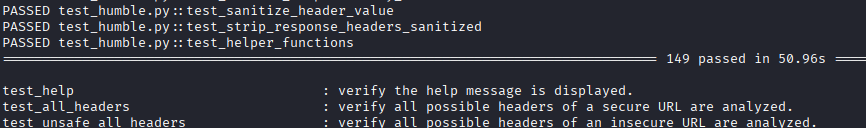
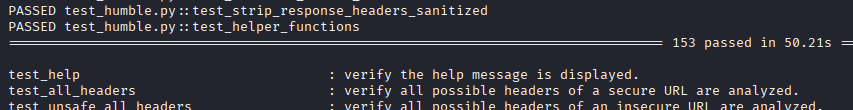
Feature: 2 new insecure checks
Content-Security-Policy: Ignored Directives - Response body
Content-Security-Policy-Report-Only: Ignored Header - Response body

diff --git a/tests/test_humble.py b/tests/test_humble.py
@@ -73,7 +73,7 @@ EXTENDED_TAGS = ["[test_python_version]", "[test_missing_arguments]",
                  "[test_testssl_command]", "[test_testssl_command_declined]",
                  "[test_testssl_analysis]", "[test_helper_functions]",
                  "[test_csp_report_only]", "[test_permissions_report_only]",
-                 "[test_request_unhandled_exception]"]
+                 "[test_request_unhandled_exception]", "[test_csp_meta]"]
 HUMBLE_TESTS_DIR = Path(__file__).parent
 HUMBLE_TEMP_HISTORY = HUMBLE_TESTS_DIR / "analysis_h.txt"
 HUMBLE_TEMP_PREFIX = "humble_"
@@ -146,8 +146,21 @@ TESTSSL_SKIP = pytest.mark.skipif(
     system().lower() == "windows",
     reason="testssl.sh requires a Unix environment (Cygwin, MSYS2 or WSL)")
 
+META_BODY = (
+    b'<html><head><meta http-equiv="Content-Security-Policy" content="'
+    b"default-src 'self' https://sandbox.example.com; frame-ancestors 'none'; "
+    b'report-uri /csp">'
+    b'<meta http-equiv="Content-Security-Policy-Report-Only" '
+    b'content="default-src *"></head></html>'
+)
+
+
 class _LocalStatusHandler(BaseHTTPRequestHandler):
-    """Serve '/status/<code>' paths returning that HTTP status code."""
+    """Serve '/status/<code>' paths returning that HTTP status code.
+
+    '/meta/<code>' paths also return an HTML body with '<meta http-equiv>'
+    tags.
+    """
 
     def do_GET(self):
         """Reply with the status code encoded in the request path."""
@@ -158,6 +171,8 @@ class _LocalStatusHandler(BaseHTTPRequestHandler):
         user_agent = user_agent.replace("\r", "").replace("\n", "")
         self.send_header("X-Request-User-Agent", user_agent)
         self.end_headers()
+        if self.command == "GET" and self.path.startswith("/meta/"):
+            self.wfile.write(META_BODY)
 
     def do_HEAD(self):
         """Reply to HEAD requests exactly as GET ones."""
@@ -986,6 +1001,25 @@ def test_csp_tokens():
     assert "(Deprecated Directives)" not in output
     assert "(Insecure Schemes)" not in output
     assert "(Unsafe Directive)" not in output
+
+
+def test_csp_meta():
+    """Verify the 'Content-Security-Policy' checks of the response body."""
+    result = subprocess.run(
+        [sys.executable, HUMBLE_MAIN_FILE, "-u",
+         f"{LOCAL_SERVER_URL}/meta/200"],
+        capture_output=True,
+        text=True,
+        timeout=15,
+        encoding="utf-8",
+        errors="replace",
+        check=False,
+    )
+    output = result.stdout + result.stderr
+    assert "Content-Security-Policy (Ignored Directives" in output
+    assert "'frame-ancestors', 'report-uri'" in output
+    assert "'sandbox'" not in output
+    assert "Content-Security-Policy-Report-Only (Ignored Header" in output
 
 
 def test_csp_report_only():

diff --git a/humble.py b/humble.py
@@ -4856,6 +4856,9 @@ t_csp_fallback = ("child-src", "connect-src", "font-src", "img-src",
 # https://mdn.io/Content-Security-Policy-Report-Only
 t_csp_ro_dep = (*t_csp_dep, "sandbox")
 
+# https://www.w3.org/TR/CSP3/#meta-element
+t_csp_meta = ("frame-ancestors", "report-uri", "sandbox")
+
 # https://developer.mozilla.org/en-US/docs/Web/HTTP/Reference/Headers/Content-Type
 # https://cheatsheetseries.owasp.org/cheatsheets/HTTP_Headers_Cheat_Sheet.html
 t_ct_mime = ("application/xhtml+xml", "text/html")
@@ -5136,6 +5139,16 @@ if header_eligible("content-security-policy"):
     csp_analyze_content(csp_h, csp_dirs_vals, csp_dirs)
     csp_check_values(csp_h, csp_dirs, csp_values)
 
+# https://www.w3.org/TR/CSP3/#meta-element
+if http_equiv:
+    csp_meta = [content for name, content in http_equiv
+                if name.casefold() == "content-security-policy"]
+    csp_meta_dirs = {directive.split()[0].casefold() for content in csp_meta
+                     for directive in content.split(";") if directive.strip()}
+    if matches_csp_meta := sorted(csp_meta_dirs.intersection(t_csp_meta)):
+        print_matched_details("[icspmeta_d]", "[icsi_d_s]", ", ".join(
+            f"'{x}'" for x in matches_csp_meta), "[icspmeta_d_r]")
+
 if header_eligible("content-security-policy-report-only"):
     csp_ro_header = headers_l["content-security-policy-report-only"]
     csp_ro_dirs = {directive.split()[0] for directive in
@@ -5145,6 +5158,10 @@ if header_eligible("content-security-policy-report-only"):
             f"'{x}'" for x in matches_csp_ro), "[icsiro_d_r]")
     if "report-to" not in csp_ro_dirs:
         print_details("[icsiroi_d]", "[icsiroi]", "d", i_cnt)
+
+if http_equiv and any(name.casefold() == "content-security-policy-report-only"
+                      for name, _ in http_equiv):
+    print_details("[icsirometa_d]", "[icsirometa]", "d", i_cnt)
 
 if header_eligible("content-type"):
     ctype_header = headers_l.get("content-type", "").casefold()

diff --git a/README.md b/README.md
@@ -72,8 +72,8 @@
 :heavy_check_mark: Covers 65 [enabled](#checks-enabled-headers) security-related HTTP response headers.<br />
 :heavy_check_mark: 15 [checks](#checks-missing-headers) for missing security-related HTTP response headers (the ones I consider essential).<br />
 :heavy_check_mark: 1289 [checks](#checks-fingerprint-headers) for fingerprinting through HTTP response headers.<br />
-:heavy_check_mark: 169 [checks](#checks-deprecated-headersprotocols-and-insecure-values) for deprecated HTTP response headers/protocols or with insecure/wrong values.<br />
-:heavy_check_mark: 29 [checks](https://github.com/rfc-st/humble/blob/master/additional/insecure.txt#L55-L83) related to Content Security Policy [Level 3](https://www.w3.org/TR/CSP3/).<br />
+:heavy_check_mark: 171 [checks](#checks-deprecated-headersprotocols-and-insecure-values) for deprecated HTTP response headers/protocols or with insecure/wrong values.<br />
+:heavy_check_mark: 30 [checks](https://github.com/rfc-st/humble/blob/master/additional/insecure.txt#L55-L84) related to Content Security Policy [Level 3](https://www.w3.org/TR/CSP3/).<br />
 :heavy_check_mark: Can check for compliance with the OWASP <a href="https://owasp.github.io/www-project-secure-headers/best-practices/#configuration-proposal" target="_blank">Secure Headers Project</a> Best Practices.<br />
 :heavy_check_mark: Can exclude specific HTTP response headers from the analysis.<br />
 :heavy_check_mark: Can analyze <a href="https://curl.se/docs/manpage.html#-D" target="_blank">raw response</a> and <a href="https://w3c.github.io/web-performance/specs/HAR/Overview.html" target="_blank">HAR</a> files.<br />
@@ -93,7 +93,7 @@
 :heavy_check_mark: Can display guidelines for enabling security HTTP response headers on popular frameworks, servers, and services.<br />
 :heavy_check_mark: Can exclude HTTP response headers across all analyses via [humble.skip](#global-humbleskip) file.<br />
 :heavy_check_mark: [AI](#AI)-driven security triage and remediation guidance.<br />
-:heavy_check_mark: Includes nearly 150 [unit tests](#unit-tests) to help verify it works correctly in your environment; requires <a href="https://pypi.org/project/pytest/" target="_blank">pytest</a> and <a href="https://pypi.org/project/pytest-cov/">pytest-cov</a>.<br />
+:heavy_check_mark: Includes over 150 [unit tests](#unit-tests) to help verify it works correctly in your environment; requires <a href="https://pypi.org/project/pytest/" target="_blank">pytest</a> and <a href="https://pypi.org/project/pytest-cov/">pytest-cov</a>.<br />
 :heavy_check_mark: Classes and functions documented at <a href="https://humble.readthedocs.io/en/latest/" target="_blank">Read the Docs</a>.<br />
 :heavy_check_mark: Code regularly audited with several quality, style and security [tools](#quality-style-and-security-tools).<br />
 :heavy_check_mark: Tested, one by one, on thousands of URLs.<br />
@@ -382,7 +382,7 @@ $ sudo apt install --only-upgrade humble
 usage: humble.py [-h] [-a] [-b] [-c] [-cicd [GRADE]] [-df] [-e [TESTSSL_PATH]] [-f [FINGERPRINT_TERM]] [-g] [-grd] [-H REQUEST_HEADER] [-if INPUT_FILE] [-l {es}] [-lic]
                  [-o {all,csv,html,json,pdf,txt,xlsx,xml}] [-of OUTPUT_FILE] [-op OUTPUT_PATH] [-p PROXY] [-r] [-s [SKIP_HEADERS ...]] [-u URL] [-ua USER_AGENT] [-v]
 
-'humble' (HTTP Headers Analyzer) | https://github.com/rfc-st/humble | v.2026-09-19
+'humble' (HTTP Headers Analyzer) | https://github.com/rfc-st/humble | v.2026-10-14
 
 options:
   -h, --help                               show this help message and exit

diff --git a/docs/index.md b/docs/index.md
@@ -26,8 +26,8 @@ Rafa *'Bluesman'* Faura Cucalón; you can read about me on <a href="https://www.
 - Covers 65 <a href="https://github.com/rfc-st/humble/#checks-enabled-headers" target="_blank">enabled</a> security-related HTTP response headers.
 - 15 <a href="https://github.com/rfc-st/humble/#checks-missing-headers" target="_blank">checks</a> for missing security-related HTTP response headers.
 - 1289 <a href="https://github.com/rfc-st/humble/#checks-fingerprint-headers" target="_blank">checks</a> for fingerprinting through HTTP response headers.
-- 169 <a href="https://github.com/rfc-st/humble/#checks-deprecated-headersprotocols-and-insecure-values" target="_blank">checks</a> for deprecated HTTP response headers/protocols or with insecure/wrong values.
-- 29 <a href="https://github.com/rfc-st/humble/blob/master/additional/insecure.txt#L55-L83" target="_blank">checks</a> related to Content Security Policy <a href="https://www.w3.org/TR/CSP3/" target="_blank">Level 3</a>.
+- 171 <a href="https://github.com/rfc-st/humble/#checks-deprecated-headersprotocols-and-insecure-values" target="_blank">checks</a> for deprecated HTTP response headers/protocols or with insecure/wrong values.
+- 30 <a href="https://github.com/rfc-st/humble/blob/master/additional/insecure.txt#L55-L84" target="_blank">checks</a> related to Content Security Policy <a href="https://www.w3.org/TR/CSP3/" target="_blank">Level 3</a>.
 - Can check for compliance with the OWASP <a href="https://owasp.github.io/www-project-secure-headers/best-practices/#configuration-proposal" target="_blank">Secure Headers Project</a> Best Practices.
 - Can exclude specific HTTP response headers from the analysis.
 - Can analyze <a href="https://curl.se/docs/manpage.html#-D" target="_blank">raw response</a> and <a href="https://w3c.github.io/web-performance/specs/HAR/Overview.html" target="_blank">HAR</a> files.
@@ -46,7 +46,7 @@ Rafa *'Bluesman'* Faura Cucalón; you can read about me on <a href="https://www.
 - Can display fingerprint statistics for a specific term or the Top 20.
 - Can display guidelines for enabling security HTTP response headers on popular frameworks, servers, and services.
 - <a href="https://github.com/rfc-st/humble/#AI" target="_blank">AI</a>-driven security triage and remediation guidance.
-- Provides nearly 150 <a href="https://github.com/rfc-st/humble/#unit-tests" target="_blank">unit tests</a> to help verify it works correctly in your environment; requires <a href="https://pypi.org/project/pytest/" target="_blank">pytest</a> and <a href="https://pypi.org/project/pytest-cov/">pytest-cov</a>.
+- Includes over 150 <a href="https://github.com/rfc-st/humble/#unit-tests" target="_blank">unit tests</a> to help verify it works correctly in your environment; requires <a href="https://pypi.org/project/pytest/" target="_blank">pytest</a> and <a href="https://pypi.org/project/pytest-cov/">pytest-cov</a>.
 - Code regularly audited with several quality, style and security <a href="https://github.com/rfc-st/humble/?tab=readme-ov-file#quality-style-and-security-tools" target="_blank">tools</a>.<br />
 - Tested, one by one, on thousands of URLs.
 - Tested on Docker 26.1, Kali Linux 2021.1, macOS 14.2.1 and Windows 10 20H2.
